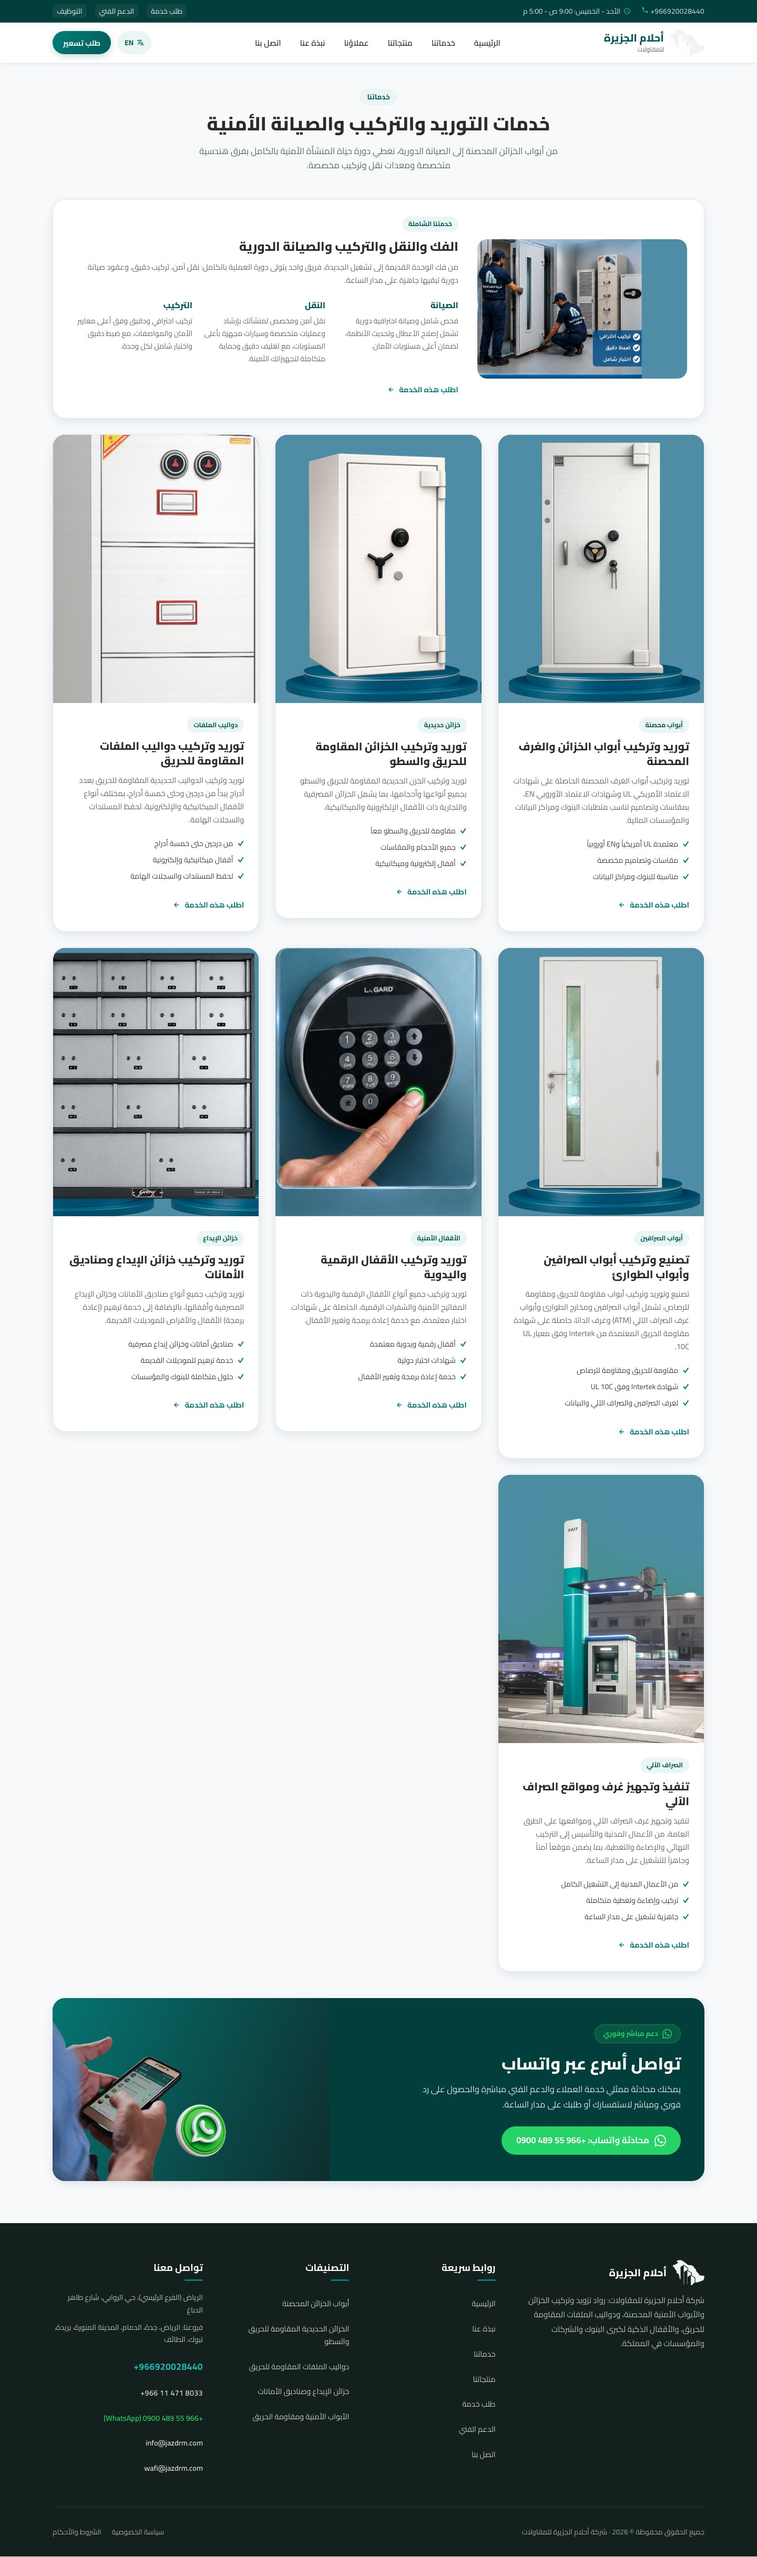
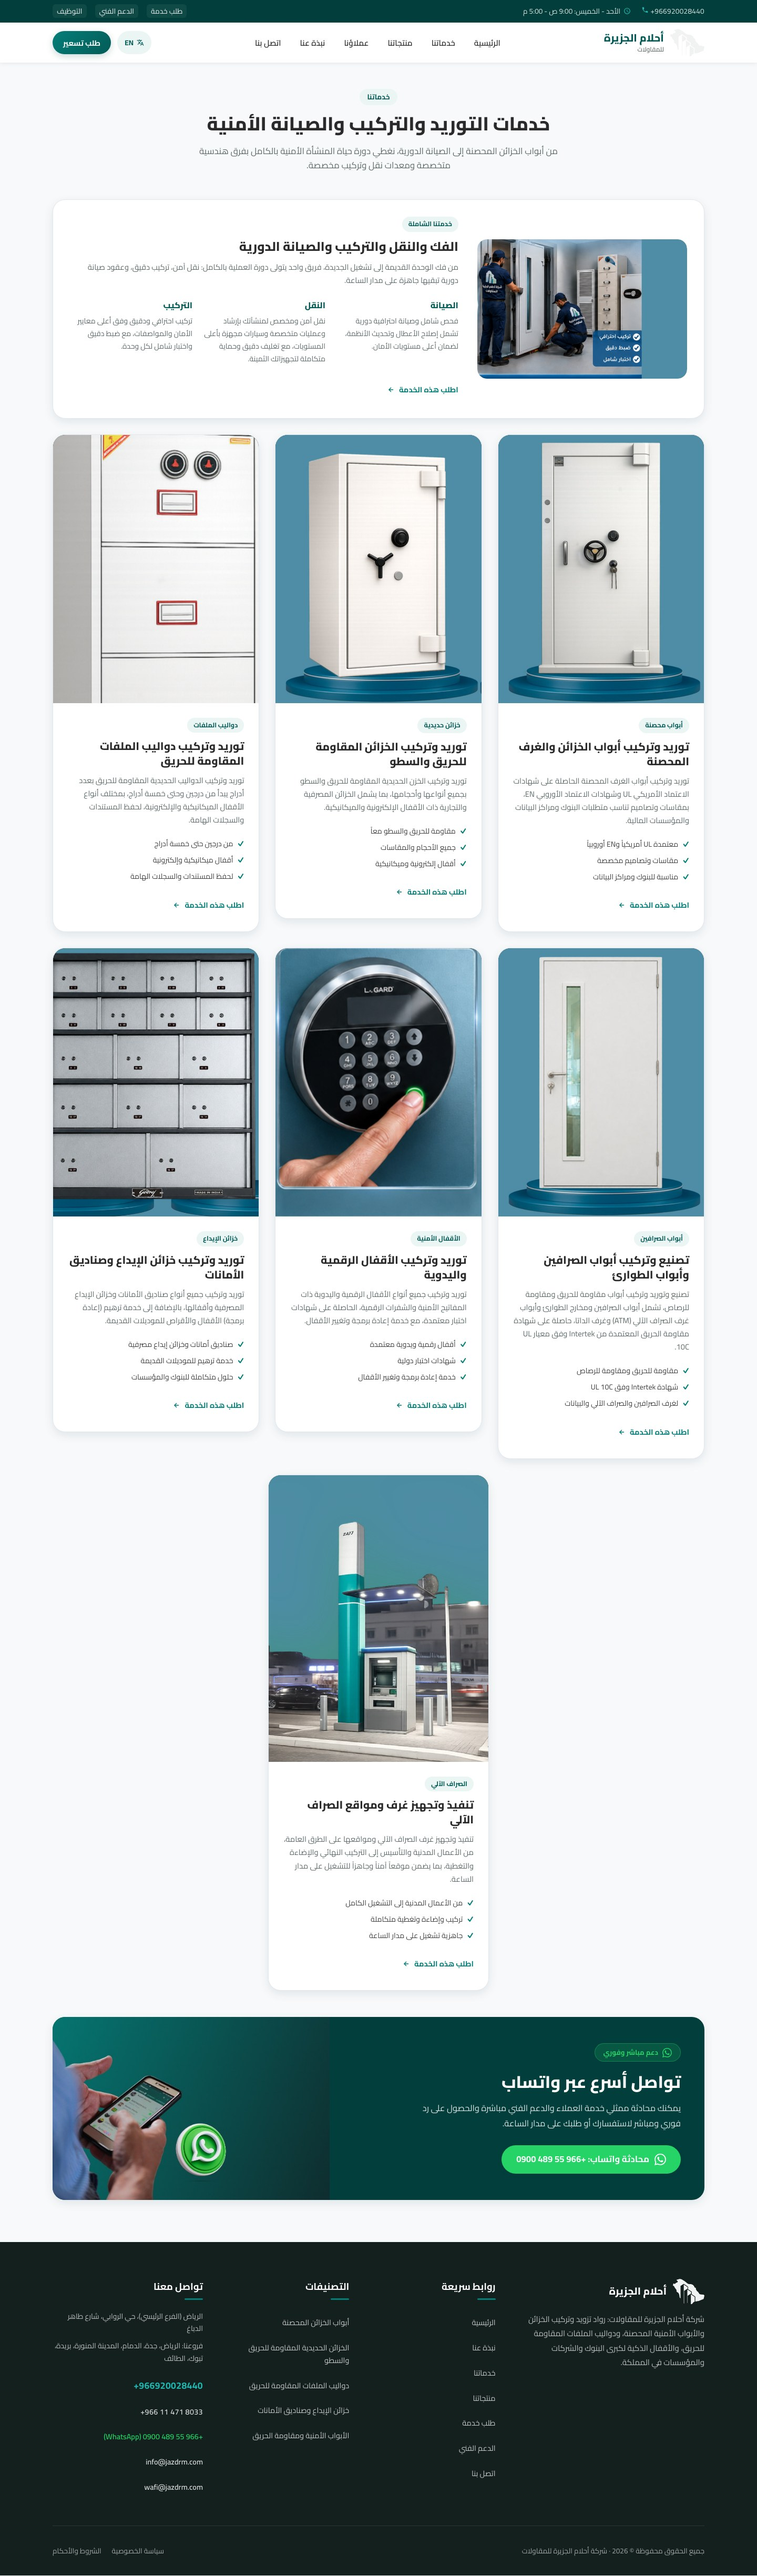
Center the lone trailing service card instead of pinning it to one side
7 regular service cards in a 3-column grid leaves the last (ATM
booths) alone in its row. Grid auto-placement was putting it in a
fixed column with a big empty gap beside it, at every breakpoint from
3 columns down to 2. Made it span the full row and centered it with a
constrained width so it looks intentional regardless of how many
columns the grid currently has.

diff --git a/en/services/index.html b/en/services/index.html
@@ -288,7 +288,7 @@
             </div>
           </article>
 
-          <article class="division-card">
+          <article class="division-card" style="grid-column: 1 / -1; justify-self: center; width: 100%; max-width: 420px;">
             <div class="division-media">
               <img src="../../assets/img/services/atm-booths.jpg" alt="ATM Booth Execution & Site Setup" width="1024" height="426" loading="lazy">
             </div>

diff --git a/services/index.html b/services/index.html
@@ -288,7 +288,7 @@
             </div>
           </article>
 
-          <article class="division-card">
+          <article class="division-card" style="grid-column: 1 / -1; justify-self: center; width: 100%; max-width: 420px;">
             <div class="division-media">
               <img src="../assets/img/services/atm-booths.jpg" alt="ATM Booth Execution & Site Setup" width="1024" height="426" loading="lazy">
             </div>

diff --git a/build_site.py b/build_site.py
@@ -636,8 +636,9 @@ def get_clients_banner(is_en=False, rel="", style=""):
             f'        </div>')
 
 
-def division_card(img, alt, tag, title, desc, href, btn, comment="", highlights=None):
+def division_card(img, alt, tag, title, desc, href, btn, comment="", highlights=None, extra_style=""):
     cmt = f"          <!-- {comment} -->\n" if comment else ""
+    style_attr = f' style="{extra_style}"' if extra_style else ""
     highlights_html = ""
     if highlights:
         items = "\n".join(
@@ -649,7 +650,7 @@ def division_card(img, alt, tag, title, desc, href, btn, comment="", highlights=
 {items}
               </ul>
 """
-    return f"""{cmt}          <article class="division-card">
+    return f"""{cmt}          <article class="division-card"{style_attr}>
             <div class="division-media">
               <img src="{img}" alt="{alt}" width="1024" height="426" loading="lazy">
             </div>
@@ -1126,8 +1127,11 @@ def build_services_page(is_en=False):
     ]
 
     cards = "\n\n".join(
-        division_card(src, alt, tag, title, desc, href, quote_btn, highlights=highlights)
-        for src, alt, tag, title, desc, href, highlights in services
+        division_card(
+            src, alt, tag, title, desc, href, quote_btn, highlights=highlights,
+            extra_style="grid-column: 1 / -1; justify-self: center; width: 100%; max-width: 420px;" if len(services) % 3 == 1 and i == len(services) - 1 else "",
+        )
+        for i, (src, alt, tag, title, desc, href, highlights) in enumerate(services)
     )
 
     breakdown = [
